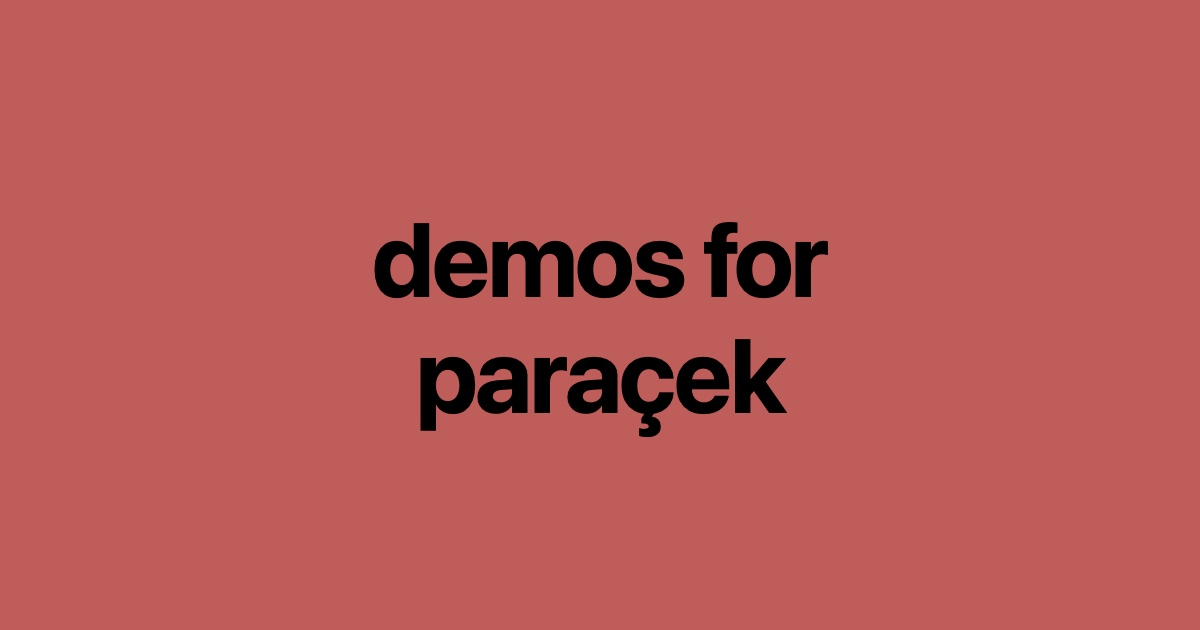
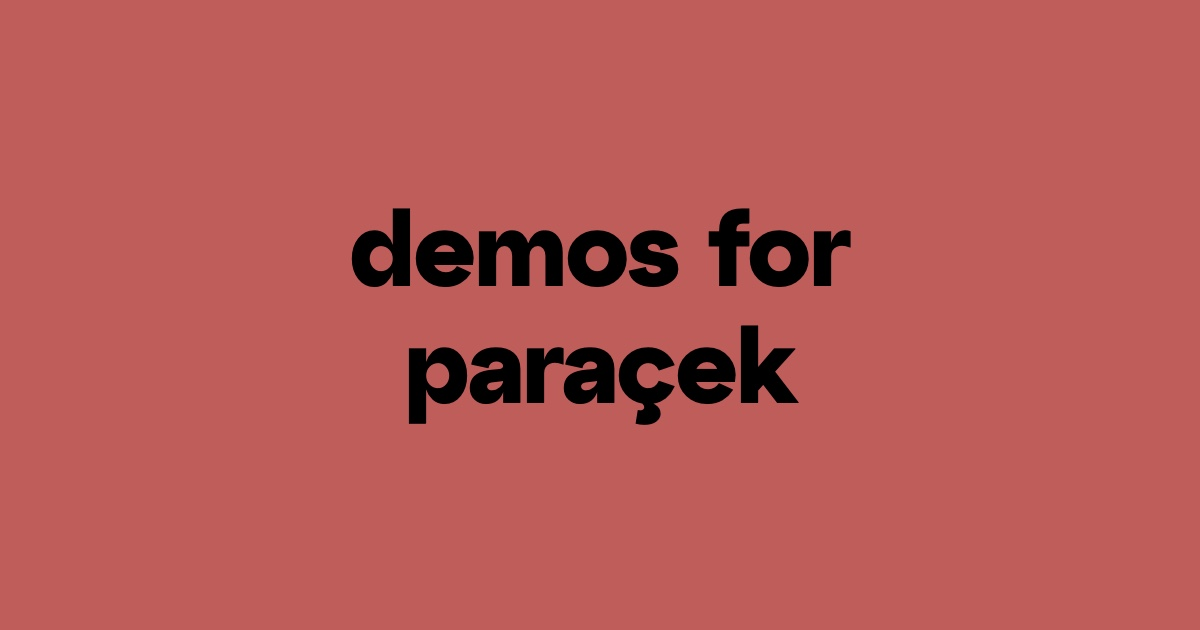
demo page: wordmark header

Changed region(s): [[0.2775, 0.3317, 0.7092, 0.4825], [0.3392, 0.5127, 0.6783, 0.6937]]

diff --git a/paracek-jnyv/index.html b/paracek-jnyv/index.html
@@ -23,9 +23,10 @@
   a { color: inherit; text-decoration: none; }
   main { min-height: 100svh; display: flex; justify-content: center; align-items: flex-start;
          padding: max(1.25rem, env(safe-area-inset-top)) 1.25rem max(2rem, env(safe-area-inset-bottom)); }
-  .card { width: 100%; max-width: 34rem; display: flex; flex-direction: column; gap: 1rem; padding-top: max(5.5rem, calc(50svh - 16rem)); }
-  .brand { position: absolute; top: max(1rem, env(safe-area-inset-top)); left: 1.25rem; z-index: 5; }
-  .brand span { display: inline-block; padding: .2rem .55rem; background: #BF5D5B; color: #000; font-size: 1rem; font-weight: 700; letter-spacing: -.01em; }
+  .card { width: 100%; max-width: 34rem; display: flex; flex-direction: column; gap: 1rem; padding-top: max(6.5rem, calc(50svh - 16rem)); }
+  .brand { position: absolute; top: max(1.25rem, env(safe-area-inset-top)); left: 1.25rem; right: 1.25rem; z-index: 5; color: var(--fg); }
+  .brand svg { display: block; width: min(100%, 30rem); height: auto; }
+  .brand span { display: block; font-size: clamp(1.9rem, 9vw, 3rem); font-weight: 800; letter-spacing: -.03em; line-height: 1; }
   .top { display: flex; gap: 1rem; }
   .cover { display: block; object-fit: cover; background: #111; width: 7.5rem; height: 7.5rem; flex: none; }
   .info { flex: 1; min-width: 0; display: flex; flex-direction: column; gap: .5rem; }
@@ -71,7 +72,7 @@
 </head>
 <body>
 <label id="hap" aria-hidden="true" style="position:absolute;left:-9999px;top:0;width:1px;height:1px;overflow:hidden"><input type="checkbox" switch tabindex="-1"></label>
-<header class="brand"><span>demos for paraçek</span></header>
+<header class="brand"><svg xmlns="http://www.w3.org/2000/svg" viewBox="0 0 1772.8 190.0" role="img" aria-label="demos for paraçek"><path fill="currentColor" d="M78.8 73.0L78.8 0.0L110.8 0.0L110.8 148.0L78.8 148.0L78.8 119.0Q74.6 133.2 65.2 141.6Q55.8 150.0 43.0 150.0Q24.4 150.0 12.2 134.5Q0.0 119.0 0.0 96.0Q0.0 73.0 12.2 57.5Q24.4 42.0 43.0 42.0Q55.8 42.0 65.2 50.4Q74.6 58.8 78.8 73.0ZM55.0 120.8Q65.4 120.8 72.1 113.8Q78.8 106.8 78.8 96.0Q78.8 85.2 72.1 78.2Q65.4 71.2 55.0 71.2Q46.0 71.2 39.6 78.3Q33.2 85.4 33.2 96.0Q33.2 106.6 39.6 113.7Q46.0 120.8 55.0 120.8ZM177.8 42.0Q204.8 42.0 220.8 61.6Q236.8 81.2 231.6 107.6L156.2 107.6Q159.0 114.6 165.3 118.7Q171.6 122.8 179.8 122.8Q194.4 122.8 201.6 111.2L227.6 123.2Q220.2 135.4 207.6 142.7Q195.0 150.0 178.8 150.0Q155.0 150.0 138.9 134.5Q122.8 119.0 122.8 96.0Q122.8 73.0 138.6 57.5Q154.4 42.0 177.8 42.0ZM177.8 69.2Q170.8 69.2 165.2 73.1Q159.6 77.0 156.6 83.6L199.2 83.6Q193.4 69.2 177.8 69.2ZM370.8 42.0Q386.2 42.0 395.5 53.8Q404.8 65.6 404.8 84.2L404.8 148.0L372.8 148.0L372.8 90.2Q372.8 81.8 368.6 76.4Q364.4 71.0 357.8 71.0Q350.2 71.0 345.5 76.3Q340.8 81.6 340.8 90.2L340.8 148.0L308.8 148.0L308.8 90.2Q308.8 81.8 304.6 76.4Q300.4 71.0 293.8 71.0Q286.2 71.0 281.5 76.3Q276.8 81.6 276.8 90.2L276.8 148.0L244.8 148.0L244.8 44.0L276.8 44.0L276.8 68.6Q280.8 56.2 288.9 49.1Q297.0 42.0 307.8 42.0Q319.4 42.0 327.6 49.2Q335.8 56.4 339.0 68.6Q343.0 56.2 351.4 49.1Q359.8 42.0 370.8 42.0ZM431.8 134.6Q415.8 119.0 415.8 96.0Q415.8 73.0 431.9 57.5Q448.0 42.0 471.8 42.0Q495.6 42.0 511.7 57.5Q527.8 73.0 527.8 96.0Q527.8 119.0 511.7 134.5Q495.6 150.0 471.8 150.0Q448.0 150.0 431.8 134.6ZM455.4 78.4Q449.0 85.4 449.0 96.0Q449.0 106.6 455.5 113.7Q462.0 120.8 471.8 120.8Q481.6 120.8 488.1 113.7Q494.6 106.6 494.6 96.0Q494.6 85.4 488.1 78.3Q481.6 71.2 471.8 71.2Q462.0 71.2 455.4 78.4ZM533.8 119.6L565.6 112.8Q567.0 125.0 580.8 125.0Q587.6 125.0 591.6 122.5Q595.6 120.0 595.6 116.6Q595.6 113.0 591.2 111.0Q586.8 109.0 580.3 108.4Q573.8 107.8 566.2 106.0Q558.6 104.2 552.1 101.6Q545.6 99.0 541.2 92.4Q536.8 85.8 536.8 75.8Q536.8 61.4 549.5 51.7Q562.2 42.0 580.8 42.0Q599.8 42.0 612.2 50.2Q624.6 58.4 626.8 72.4L595.0 79.2Q593.6 67.0 580.8 67.0Q575.8 67.0 572.4 69.1Q569.0 71.2 569.0 74.4Q569.0 78.2 573.4 80.4Q577.8 82.6 584.3 83.3Q590.8 84.0 598.4 85.8Q606.0 87.6 612.5 90.3Q619.0 93.0 623.4 99.6Q627.8 106.2 627.8 116.2Q627.8 130.4 614.1 140.2Q600.4 150.0 580.8 150.0Q561.0 150.0 548.5 141.8Q536.0 133.6 533.8 119.6ZM737.8 148.0L705.8 148.0L705.8 72.0L685.8 72.0L685.8 44.0L705.8 44.0L705.8 42.0Q705.8 0.0 749.8 0.0L762.8 0.0L762.8 28.0L749.8 28.0Q737.8 28.0 737.8 40.0L737.8 44.0L762.8 44.0L762.8 72.0L737.8 72.0ZM780.8 134.6Q764.8 119.0 764.8 96.0Q764.8 73.0 780.9 57.5Q797.0 42.0 820.8 42.0Q844.6 42.0 860.7 57.5Q876.8 73.0 876.8 96.0Q876.8 119.0 860.7 134.5Q844.6 150.0 820.8 150.0Q797.0 150.0 780.8 134.6ZM804.4 78.4Q798.0 85.4 798.0 96.0Q798.0 106.6 804.5 113.7Q811.0 120.8 820.8 120.8Q830.6 120.8 837.1 113.7Q843.6 106.6 843.6 96.0Q843.6 85.4 837.1 78.3Q830.6 71.2 820.8 71.2Q811.0 71.2 804.4 78.4ZM920.8 44.0L920.8 70.0Q923.4 60.2 927.7 53.7Q932.0 47.2 936.9 44.8Q941.8 42.4 947.4 42.0Q953.0 41.6 958.2 44.0L958.2 74.0Q942.2 67.8 931.5 72.7Q920.8 77.6 920.8 90.2L920.8 148.0L888.8 148.0L888.8 44.0ZM1092.0 42.0Q1110.6 42.0 1122.8 57.5Q1135.0 73.0 1135.0 96.0Q1135.0 119.0 1122.8 134.5Q1110.6 150.0 1092.0 150.0Q1079.2 150.0 1069.8 141.6Q1060.4 133.2 1056.2 119.0L1056.2 188.0L1024.2 188.0L1024.2 44.0L1056.2 44.0L1056.2 73.0Q1060.4 58.8 1069.8 50.4Q1079.2 42.0 1092.0 42.0ZM1080.0 120.8Q1089.0 120.8 1095.4 113.7Q1101.8 106.6 1101.8 96.0Q1101.8 85.4 1095.4 78.3Q1089.0 71.2 1080.0 71.2Q1069.6 71.2 1062.9 78.2Q1056.2 85.2 1056.2 96.0Q1056.2 106.8 1062.9 113.8Q1069.6 120.8 1080.0 120.8ZM1191.0 42.0Q1211.8 42.0 1224.5 52.7Q1237.2 63.4 1237.2 84.2L1237.2 148.0L1205.2 148.0L1205.2 123.6Q1197.4 150.0 1171.2 150.0Q1159.0 150.0 1150.0 141.6Q1141.0 133.2 1141.0 119.6Q1141.0 89.2 1182.6 85.2L1196.8 84.0Q1205.2 83.4 1205.2 77.2Q1205.2 73.2 1201.3 70.6Q1197.4 68.0 1191.4 68.0Q1184.6 68.0 1180.6 71.6Q1176.6 75.2 1175.8 81.0L1144.0 74.2Q1145.6 60.8 1158.1 51.4Q1170.6 42.0 1191.0 42.0ZM1183.4 125.0Q1191.8 125.0 1198.5 119.0Q1205.2 113.0 1205.2 105.6L1205.2 105.0Q1203.2 106.0 1197.8 106.6L1182.4 108.4Q1173.0 109.6 1173.0 116.8Q1173.0 120.6 1175.7 122.8Q1178.4 125.0 1183.4 125.0ZM1284.2 44.0L1284.2 70.0Q1286.8 60.2 1291.1 53.7Q1295.4 47.2 1300.3 44.8Q1305.2 42.4 1310.8 42.0Q1316.4 41.6 1321.6 44.0L1321.6 74.0Q1305.6 67.8 1294.9 72.7Q1284.2 77.6 1284.2 90.2L1284.2 148.0L1252.2 148.0L1252.2 44.0ZM1371.6 42.0Q1392.4 42.0 1405.1 52.7Q1417.8 63.4 1417.8 84.2L1417.8 148.0L1385.8 148.0L1385.8 123.6Q1378.0 150.0 1351.8 150.0Q1339.6 150.0 1330.6 141.6Q1321.6 133.2 1321.6 119.6Q1321.6 89.2 1363.2 85.2L1377.4 84.0Q1385.8 83.4 1385.8 77.2Q1385.8 73.2 1381.9 70.6Q1378.0 68.0 1372.0 68.0Q1365.2 68.0 1361.2 71.6Q1357.2 75.2 1356.4 81.0L1324.6 74.2Q1326.2 60.8 1338.7 51.4Q1351.2 42.0 1371.6 42.0ZM1364.0 125.0Q1372.4 125.0 1379.1 119.0Q1385.8 113.0 1385.8 105.6L1385.8 105.0Q1383.8 106.0 1378.4 106.6L1363.0 108.4Q1353.6 109.6 1353.6 116.8Q1353.6 120.6 1356.3 122.8Q1359.0 125.0 1364.0 125.0ZM1484.8 120.8Q1499.4 120.8 1505.6 106.6L1534.8 116.6Q1528.8 130.8 1517.7 139.3Q1506.6 147.8 1492.4 149.6Q1508.0 156.4 1508.0 169.2Q1508.0 177.6 1499.7 183.8Q1491.4 190.0 1477.2 190.0Q1469.2 190.0 1461.2 187.8L1465.2 162.8Q1467.6 163.4 1469.6 163.4Q1473.4 163.4 1475.6 161.6Q1477.8 159.8 1477.8 156.8Q1477.8 152.8 1474.2 149.2Q1454.2 145.8 1441.5 131.0Q1428.8 116.2 1428.8 96.0Q1428.8 73.0 1444.9 57.5Q1461.0 42.0 1484.8 42.0Q1501.4 42.0 1514.8 50.7Q1528.2 59.4 1534.8 75.4L1505.6 85.4Q1499.4 71.2 1484.8 71.2Q1475.0 71.2 1468.5 78.3Q1462.0 85.4 1462.0 96.0Q1462.0 106.6 1468.5 113.7Q1475.0 120.8 1484.8 120.8ZM1595.8 42.0Q1622.8 42.0 1638.8 61.6Q1654.8 81.2 1649.6 107.6L1574.2 107.6Q1577.0 114.6 1583.3 118.7Q1589.6 122.8 1597.8 122.8Q1612.4 122.8 1619.6 111.2L1645.6 123.2Q1638.2 135.4 1625.6 142.7Q1613.0 150.0 1596.8 150.0Q1573.0 150.0 1556.9 134.5Q1540.8 119.0 1540.8 96.0Q1540.8 73.0 1556.6 57.5Q1572.4 42.0 1595.8 42.0ZM1595.8 69.2Q1588.8 69.2 1583.2 73.1Q1577.6 77.0 1574.6 83.6L1617.2 83.6Q1611.4 69.2 1595.8 69.2ZM1727.0 88.2L1772.8 148.0L1732.6 148.0L1705.2 112.4L1694.8 124.0L1694.8 148.0L1662.8 148.0L1662.8 0.0L1694.8 0.0L1694.8 81.2L1726.8 44.0L1766.8 44.0Z"/></svg></header>
 <main>
   <div class="card" id="card">
     <div class="top">
